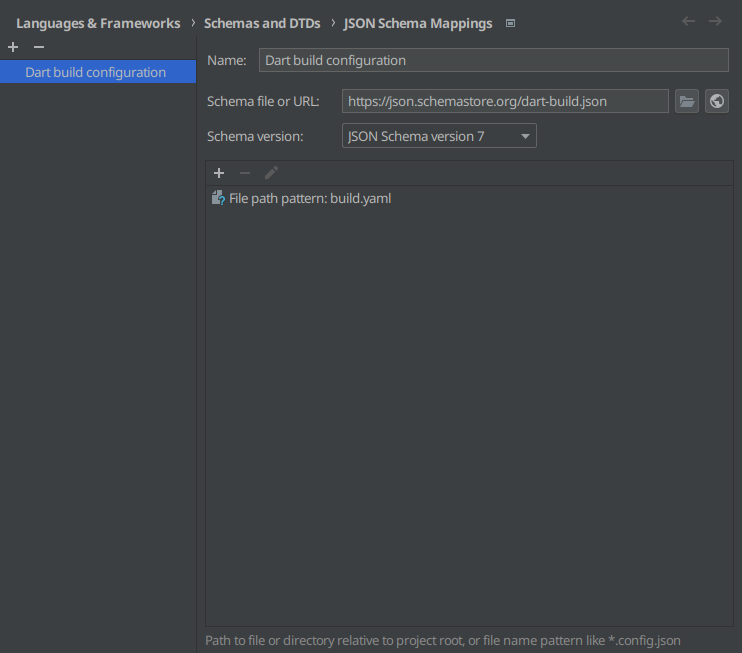
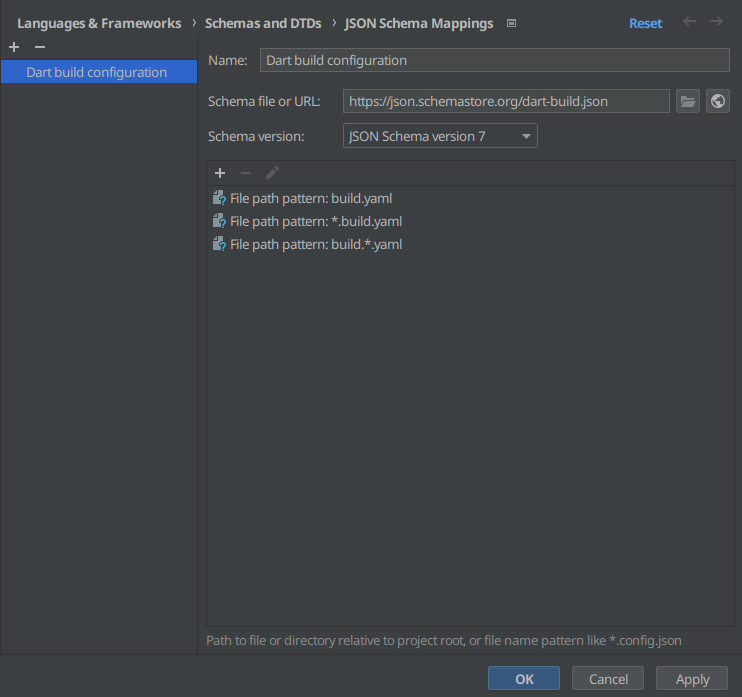
Recommend alternative file patterns too

diff --git a/docs/faq.md b/docs/faq.md
@@ -342,7 +342,9 @@ Add the following snippet to your `settings.json` to use the correct schema for
 ```json
 "yaml.schemas": {
     "https://json.schemastore.org/dart-build": [
-        "build.yaml"
+        "build.yaml",
+        "*.build.yaml",
+        "build.*.yaml"
     ]
 }
 ```
